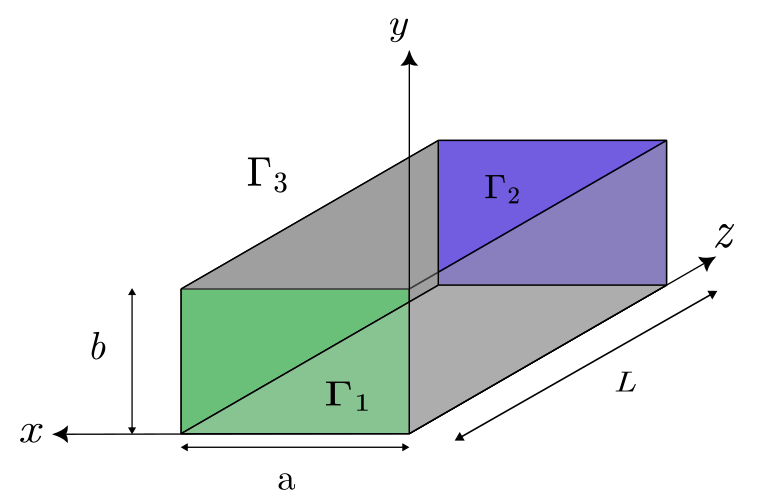
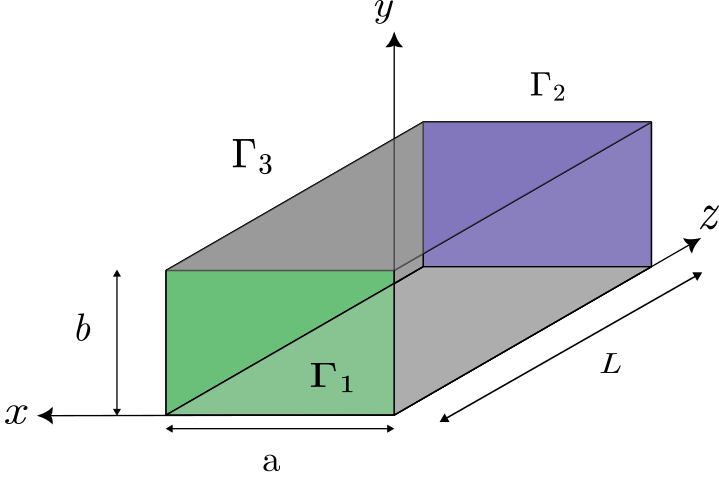
Waveguide_example_V3

diff --git a/doc/source/examples/multiphysics/waveguide/waveguide.rst b/doc/source/examples/multiphysics/waveguide/waveguide.rst
@@ -6,7 +6,7 @@
 Waveguide
 =========
 
-This example is used to verify the implementation of the electromagnetic solver. It considers the propagation of an electromagnetic wave in a waveguide, a problem for which an analytical solution is available, thereby allowing us to assess whether the method recovers the expected order of convergence.
+This example is used to verify the implementation of the electromagnetic solver. It considers the propagation of an electromagnetic (EM) wave in a waveguide, a problem for which an analytical solution is available, thereby allowing us to assess whether the method recovers the expected order of convergence.
 
 --------
 Features
@@ -14,17 +14,8 @@ Features
 
 - Solvers: ``lethe-fluid`` or ``lethe-fluid-matrix-free``
 - Steady-state problem
-- Use of discontinous Petrov-Galerkin (DPG) method
+- Use of discontinuous Petrov-Galerkin (DPG) method
 
-.. Note::
-    Even though we are using ``lethe-fluid``, we have to enable the electromagnetism solver tin the subsection Multiphysics:
-
-.. code-block:: text
-
-    subsection multiphysics
-        set fluid dynamics   = false
-        set electromagnetics = true
-    end
 
 --------------------------
 Files Used In This Example
@@ -33,7 +24,7 @@ Files Used In This Example
 All files mentioned below are located in the example's folder (``examples/multiphysics/waveguide``)
 
 - Base case parameter file (:math:`\mathrm{f=2.45 GHz}` and :math:`\mathrm{TE}_{10}`): ``waveguide.prm``
-- Folders with the results of the simulation for the degree n: ``degree_n``
+
 
 
 
@@ -42,10 +33,11 @@ All files mentioned below are located in the example's folder (``examples/multip
 Description of the Case
 -----------------------
 
+
 Geometry
 ~~~~~~~~
 
-The simulated waveguide has a square cross section. It is made of four perfectly reflective lateral walls, an inlet port for the wave’s entry, and an outlet for its exit  as shown in the figure below. The wave propagates along the :math:`z`-axis.
+The simulated waveguide has a square cross section. It is made of four perfectly conductive lateral walls, an inlet port for the wave’s entry, and an outlet for its exit as shown in the figure below. The wave propagates along the :math:`z`-axis.
 
 .. image:: images/schematic.png
     :alt: schematic
@@ -59,42 +51,51 @@ The dimensions chosen here are a width :math:`a = 0.25 \, \mathrm{m}`,  a height
 Physical Problem
 ~~~~~~~~~~~~~~~~
 .. note::
-    Lethe time-harmonic solver always solve the set of equation in a dimensionless form, so that is the convention that will be used in what follows. 
+    Lethe time-harmonic solver always solve the set of equation in a dimensionless form, so that is the convention that will be used in the following mathematical descriptions. 
 
 
-This simulation computes the stationary electromagnetic field in the above waveguide with perfectly conducting metal wall and filled with void. Recall that the time-harmonic maxwell equation in their dimensionless form used in this test case are:
+This simulation computes the stationary electromagnetic field in the above waveguide filled with void. We recall that the time-harmonic Maxwell equations in their dimensionless form, as used in this example, are:
 
 .. math::
     \begin{align*}
-    \tag{Farady's law} \nabla \times \mathbf{E} - i\omega \mu_{\mathrm{r}}\mathbf{H} &= 0 \\
+    \tag{Faraday's law} \nabla \times \mathbf{E} - i\omega \mu_{\mathrm{r}}\mathbf{H} &= 0 \\
     \tag{Ampère-Maxwell's law} \nabla \times \mathbf{H} + i \omega \varepsilon_{\mathrm{r,eff}} \mathbf{E} &= \mathbf{J} 
     \end{align*}
 
-With the parameters of the problem:
+with the parameters of the problem:
 
-- Dielectric caracteristics of the medium : :math:`\mu_{\mathrm{r}}` the relative permeability and :math:`\varepsilon_{\mathrm{r,eff}}` the effective relative permittivity. This caracteristic is "effective" because it takes into account the electric conductivity.   
-- Excitation : :math:`\mathbf{J}` the current density and :math:`\omega = \frac{L2\pi f}{c}` the angular frequency of the electromagnetic wave.
-- Speed of light in void: :math:`c`
-
-There are 12 unknowns. In fact, one for each of the dimensionless :math:`\mathbf{E}` and :math:`\mathbf{H}` fields, we compute the real and imaginary parts in each of the three spatial directions. 
+- Dielectric characteristics of the medium : :math:`\mu_{\mathrm{r}}` the relative permeability and :math:`\varepsilon_{\mathrm{r,eff}}` the effective relative permittivity. This characteristic is noted "effective" because it takes into account the electric conductivity.   
+- Excitation: :math:`\mathbf{J}` the current density and :math:`\omega = \frac{L2\pi f}{c}` the angular frequency of the electromagnetic wave normalized by the speed of light in the void :math:`c` .
 
 
-Therefore we introduce the dimensionless wavenumbers used to describe the EM waves:
+When solving a time-harmonic electromagnetic problem with Lethe, there are 12 unknowns, one for each component of the dimensionless :math:`\mathbf{E}` and :math:`\mathbf{H}` fields times two for the real and imaginary parts in each of the three spatial directions. 
 
-- Wave numbers corresponding to a standing wave caused by the walls: :math:`k_\mathrm{x} = \frac{Lm\pi}{a} \ , \ k_\mathrm{y} = \frac{Ln\pi}{b}`
-- Norm of the vector :math:`(k_\mathrm{x},k_\mathrm{y})`: :math:`k_\mathrm{c}^2 = (k_\mathrm{x}^2 + k_\mathrm{y}^2)`
-- Total wave number: :math:`k^2 = \omega \mu_{\mathrm{r}} \varepsilon_{\mathrm{eff,r}} = \sqrt{k_\mathrm{x}^2 +k_\mathrm{y}^2 + k_\mathrm{z}^2}`
-- Wave number corresponding to a wave propagating along the z-axis: :math:`k_\mathrm{z} = \sqrt{\omega^2 \varepsilon_\mathrm{eff,r}\mu_\mathrm{r} - k_\mathrm{c}^2}`
+
+In addition, to describe an electromagnetic wave problem, it is useful to  introduce the following dimensionless wavenumbers to ease notation in the following parts of this example :
+
+- Wavenumbers corresponding to a standing wave caused by the walls: :math:`k_\mathrm{x} = \frac{Lm\pi}{a} \ , \ k_\mathrm{y} = \frac{Ln\pi}{b}`
+- Wavenumber in the transverse direction of propagation: :math:`k_\mathrm{c} = \sqrt{k_\mathrm{x}^2 + k_\mathrm{y}^2}`
+- Total wavenumber: :math:`k = \omega \sqrt{\mu_{\mathrm{r}} \varepsilon_{\mathrm{eff,r}}} = \sqrt{k_\mathrm{x}^2 +k_\mathrm{y}^2 + k_\mathrm{z}^2}`
+- Wavenumber corresponding to a wave propagating along the z-axis: :math:`k_\mathrm{z} = \sqrt{\omega^2 \varepsilon_\mathrm{eff,r}\mu_\mathrm{r} - k_\mathrm{c}^2}`
 
 .. note::
     Note that if :math:`k \leq k_\mathrm{c}`, the wave does not propagate because :math:`k_\mathrm{z}^2 \leq 0`. This remark is important for the following part on the frequency and the different modes.
 
-The Different Transverse Modes
-~~~~~~~~~~~~~~~~~~~~~~~~~~~~~~
+In Lethe, the ``electromagnetics`` solver is enabled within the ``multiphysics`` subsection of the parameter file. We also disable the ``fluid dynamics`` solver there since it is enabled by default.
+
+.. code-block:: text
+
+    subsection multiphysics
+        set fluid dynamics   = false
+        set electromagnetics = true
+    end
+
+The Different Transverse Modes And The Frequency Modification
+~~~~~~~~~~~~~~~~~~~~~~~~~~~~~~~~~~~~~~~~~~~~~~~~~~~~~~~~~~~~~
 
 :math:`\mathrm{TE}_{mn}` mode refers to "Transverse electric mode". This means that regardless of the values of :math:`m` and :math:`n`, the :math:`z`-component of :math:`\mathbf{E}` is always zero. Therefore, the pair :math:`(m,n)` refers to the :math:`x`-component of the electric field being excited in the :math:`m`-th mode and the :math:`y`-component of the electric field being excited on the :math:`n`-th mode. 
 
-The :math:`\mathrm{TE}_{mn}` mode can be modified at lines 97 and 98, the default settings are:
+The :math:`\mathrm{TE}_{mn}` modes can be specified in the subsection `waveguide mode` of the parameter file. Here we used the following :
 
 .. code-block:: text
 
@@ -105,15 +106,18 @@ The :math:`\mathrm{TE}_{mn}` mode can be modified at lines 97 and 98, the defaul
     end
 
 
-You can also switch to transverse magnetic mode by replacing “TE” with “TM”.
+To apply a transverse magnetic mode, simply modify the `mode type` with “TM”.
+
+The frequency of the inlet is originally set to :math:`f = \mathrm{2.45}\, \mathrm{GHz}` because it is the nominal frequency of microwave reactors in the industry. This value can be modified in the parameter file in the subsection ``time harmonic maxwell``: ``set electromagnetic frequency  = 2.45e9``
+
 
 .. caution::
-    If :math:`\mathrm{TE}_{mn}` is changed, :math:`k_\mathrm{z} = \sqrt{\omega^2 \varepsilon_{eff}\mu - k_\mathrm{x}^2 - k_\mathrm{y}^2 }`  at line 163, the dimensionless admittance real part :math:`\Re (G)=\frac{1}{Z_s}=\frac{k_\mathrm{z}}{\omega \mu_\mathrm{r}}` at line 147 must be changed because it depends on :math:`(m,n)` through :math:`k_\mathrm{x} = \frac{m \pi}{a}` and :math:`k_\mathrm{y} = \frac{n \pi}{b}`.
+    If :math:`\mathrm{TE}_{mn}` or the frequency is changed, the wavenumber :math:`k_\mathrm{z} = \sqrt{\omega^2 \varepsilon_{\mathrm{eff,r}}\mu_\mathrm{r} - k_\mathrm{x}^2 - k_\mathrm{y}^2 }`  at line 163, the dimensionless admittance real part :math:`Y_\mathrm{s}=\frac{1}{Z_\mathrm{s}}=\frac{k_\mathrm{z}}{\omega \mu_\mathrm{r}}` at line 147 must be changed because it depends on :math:`(m,n)` and :math:`f` through :math:`k_\mathrm{x} = \frac{m \pi}{a}`, :math:`k_\mathrm{y} = \frac{n \pi}{b}` and :math:`\omega`.
 
 .. warning:: 
-    If you want to try high modes, you have to adapt the frequency in order for :math:`k_z` to keep a real value. Indeed, the number :math:`k_z^2 = \omega^2 \epsilon_{\mathrm{eff,r}}\mu_\mathrm{r} - k_x^2 - k_y^2` can be negative.
+    The simulation may not run for low frequencies or high modes. You have to adapt one of these parameters in order for :math:`k_z` to keep a real value. Indeed, the number :math:`k_z^2 = \omega^2 \varepsilon_{\mathrm{eff,r}}\mu_\mathrm{r} - k_x^2 - k_y^2` cannot be negative.
 
-Here are Paraview visuals of different modes. In order to maximise the resolution, we calculated the parameters with :math:`\lambda = L = 1\, \mathrm{m}`, which is equivalent to fix the dimensionless parameter :math:`k_\mathrm{z} = 2\pi`. This represents only one spatial period of the wave. Results of :math:`\mathrm{TE}_{10}`, :math:`\mathrm{TE}_{01}` and :math:`\mathrm{TE}_{21}` are presented below:
+Here are Paraview visuals of different modes. In order to maximise the resolution, we calculated the parameters with :math:`\lambda = L = 1\, \mathrm{m}`, which is equivalent to fix the dimensionless parameter :math:`k_\mathrm{z} = 2\pi`. This represents only one spatial period of the wave. Results of :math:`\mathrm{TE}_{32}`, :math:`\mathrm{TE}_{01}` and :math:`\mathrm{TE}_{10}` (respectively, from left to right) are presented below:
 
 .. image:: images/TE_modes.png
     :alt: TE10
@@ -129,18 +133,22 @@ Here are Paraview visuals of different modes. In order to maximise the resolutio
 Boundary Conditions
 ~~~~~~~~~~~~~~~~~~~
 
-.. Note::
-    Although we are not using the fluid solver, note that we cannot remove the ``subsection boundary conditions`` on line 107 otherwise the simulation fails to execute.
+.. Attention::
+    Although we are not using the fluid solver, note that we cannot remove the ``subsection boundary conditions`` for the fluid boundaries in the parameter file otherwise the simulation fails to execute.
 
-There are three types of boundary conditions in this problem, this explains why the surfaces of the waveguide are sorted in three groups. There is first the inlet :math:`\Gamma_1`, the outlet :math:`\Gamma_2` and finally the metal walls :math:`\Gamma_3`.
+There are three types of boundary conditions in this problem, this explains why the surfaces of the waveguide are sorted in three groups. First, there is the inlet :math:`\Gamma_1`, then the outlet :math:`\Gamma_2` and finally the metal walls :math:`\Gamma_3`.
 
 - Inlet :math:`\Gamma_1`: waveguide port boundary condition at the inlet of the waveguide to excite the :math:`\mathrm{TE}_{mn}` mode at :math:`z` = 0
-- Outlet :math:`\Gamma_2`: impedance matching boundary condition to minimize the reflections (the waveguide is theoretically infinite). The dimensionless admittance in such conditions is:
+- Outlet :math:`\Gamma_2`: ``impedance boundary`` condition tuned to the waveguide impedance to minimize the reflections (the waveguide is theoretically infinite). The dimensionless admittance in such conditions is:
 
   .. math::
-    \frac{1}{Z_s}=\frac{k_\mathrm{z}}{\omega \mu_\mathrm{r}}
 
-- Metal walls :math:`\Gamma_3`: perfect electric conductor (PEC) boundary conditions
+    Y_\mathrm{s} = \frac{1}{Z_\mathrm{s}}=\frac{k_\mathrm{z}}{\omega \mu_\mathrm{r}} = \frac{k_\mathrm{z} c}{2\pi f \mathrm{L} \mu_\mathrm{r}} \approx 0.968987646
+
+  .. caution::
+    Changes in mode will affect this value as mentioned before.
+
+- Metal walls :math:`\Gamma_3`: ``pec`` (perfect electric conductor) boundary conditions
 
 These translate into the three following equations:
 
@@ -153,7 +161,7 @@ These translate into the three following equations:
 
 
     
-Here are the lines concerning the boundary conditions in the parameter file:
+These boundary conditions are specified within the ``boundary conditions time harmonic maxwell`` subsection of the parameter file:
 
 .. code-block:: text
 
@@ -197,23 +205,13 @@ Here are the lines concerning the boundary conditions in the parameter file:
         end
     end
 
-Here is how each boundary condition is programmed in this file:
-
-- Inlet: ``set type = waveguide port``
-- Outlet: The dimensionless admittance :math:`\frac{1}{Z_\mathrm{s}} = \frac{k_\mathrm{z}}{\omega \mu_\mathrm{r}} = \frac{k_\mathrm{z} c}{2\pi f \mathrm{L} \mu_\mathrm{r}}` has to be calculated by the user before launching the simulation. Then, it is programmed here:
-
-.. code-block:: text
-
-    subsection surface admittance real part
-        set Function expression = 0.968987646    
-    
-- Perfect reflective walls: ``set type = pec``
 
 
-Dimensionless analytical solution
+
+Dimensionless Analytical Solution
 ~~~~~~~~~~~~~~~~~~~~~~~~~~~~~~~~~
 
-The solution for a :math:`\mathrm{TE_mn}` mode, which will be used to assess convergence for this test case, is given by:
+The solution for a :math:`\mathrm{TE}_{mn}` mode, which will be used to assess convergence for this test case, is given by:
 
 .. math::
     \mathbf{E} = i\frac{\omega\mu_r}{k_c^2} \begin{bmatrix}
@@ -230,13 +228,26 @@ The solution for a :math:`\mathrm{TE_mn}` mode, which will be used to assess con
     \end{bmatrix} e^{ik_\mathrm{z} z}
     
 
+The solution is specified in the ``Analytical Solution`` subsection of the parameter file: 
 
+.. code-block:: text 
 
+    subsection analytical solution
+        set enable    = true
+        set verbosity = verbose
+        subsection electromagnetics
+            set Function constants  = k = 51.348203, k_x = 12.5663706, k_z = 49.78678822
+            set Function expression = 0. ; (-k/k_x)* sin(k_x*x) * sin(k_z*z);  0.;0; (k/k_x)* sin(k_x*x) * cos(k_z*z);   0;  (k_z/k_x)* sin(k_x*x) * sin(k_z*z);    0.;   cos(k_x * x)*cos(k_z*z) ; -(k_z/k_x)* sin(k_x*x) * cos(k_z*z);    0.;  cos(k_x * x) *sin(k_z*z)
+        end
+    end 
+
+.. note::
+    The parameters defined here are only used to calculate the error, they are not taken into account in the simulation.
 
 Mesh Adaptation
 ~~~~~~~~~~~~~~~
 
-We specify, in the subsection ``mesh adaptation``, the ``type``` to be ``uniform``:
+In this tutorial, we want to perform a convergence analysis. Therefore, the mesh needs to be successively refined uniformly across the domain. This is achieved with the subsection ``mesh adaptation``, by setting the ``type`` to be ``uniform``:
 
 .. code-block:: text
 
@@ -244,7 +255,7 @@ We specify, in the subsection ``mesh adaptation``, the ``type``` to be ``uniform
       set type = uniform
     end
 
-The first parameter we can change is the the number ``n`` of mesh adaptations in the subsection ``simulation control``:
+and by changing the number ``n`` of mesh adaptations in the subsection ``simulation control``:
 
 .. code-block:: text
 
@@ -255,50 +266,35 @@ The first parameter we can change is the the number ``n`` of mesh adaptations in
         set number mesh adapt = n
     end
 
+Note that a folder is automatically created when the simulation is run. If you try a new order :math:`m`, you can change the name of the path in the ``simulation control`` subsection: ``set output path = ./degree_m/``
 
 
 .. Note:: 
-    A typical lab PC (12 cores, 64 Go RAM) can compute up to 3 mesh adaptations. 
+    A typical computer with 12 cores and 64 Gb of RAM can compute up to 3 mesh adaptations, after that the systems becomes too heavy in memory. 
 
 
-
-
-
-
-
-Frequency of the Electromagnetic Wave
-~~~~~~~~~~~~~~~~~~~~~~~~~~~~~~~~~~~~~
-
-The frequency of the inlet is originally set to :math:`f = \mathrm{2.45}\, \mathrm{GHz}` because it the nominal frequency of microwaves (MW) in the industry. This value can still be modified at line 84 : ``set electromagnetic frequency  = 2.45e9``
-
-.. caution::
-    If the frequency is changed, :math:`k_\mathrm{z} = \sqrt{\omega^2 \varepsilon_\mathrm{eff,r}\mu_\mathrm{r} - k_\mathrm{x}^2 - k_\mathrm{y}^2}` at line 163, the dimensionless admittance real part :math:`\Re (G) =\frac{1}{Z_s}=\frac{k_\mathrm{z}}{\omega \mu_\mathrm{r}}` at line 147 need to be changed since it depends on :math:`f` through :math:`\omega = \frac{2\pi Lf}{c}`.
-
-.. warning::
-    The simulation may not run for low frequencies. Indeed, if :math:`k_\mathrm{z}^2 = \omega^2 \varepsilon_\mathrm{eff,r}\mu_\mathrm{r} - k_\mathrm{x}^2 - k_\mathrm{y}^2` becomes negative, the mathematical solution still exists as evanescent waves, but it does not represent a physical system.
 
 
 
 Degree of the FEM Solver
 ~~~~~~~~~~~~~~~~~~~~~~~~
-You can also change the degree of the polynomes used in the Finite Element Method on lines 39 and 40: 
+You can also change the degree of the polynomes used in the Finite Element Method in subsection `FEM`: 
 
 .. code-block:: text
 
     subsection FEM
-        set electromagnetics trial order = 1
-        set electromagnetics test order  = 2
+        set electromagnetics trial degree = 1
+        set electromagnetics test degree  = 2
     end
 
 .. caution::
-    If you change the trial degree, you have to change the test degree on in order to have :math:`test \, degree = trial \, degree + 1`.
+    The time-harmonic Maxwell solver requires the degree of the test space to always be greater than the degree of the trial space. Consequently, if the trial space degree is changed, the test degree also needs to be adjusted. 
 
-Note that a folder is automatically created when the simulation is run. If you try a new order :math:`m`, you cam change the mame of the path on line 22: ``set output path       = ./degree_m/``
 
 Physical Properties
 ~~~~~~~~~~~~~~~~~~~
 
-You can also change the ``physical properties`` of the medium at the subsection (line 43). These are the default settings for air or void:
+You can also change the electromagnetic properties of the medium at the subsection ``phytsical properties``. Here are the default settings for air or void:
 
 .. code-block:: text
     
@@ -321,18 +317,18 @@ You can also change the ``physical properties`` of the medium at the subsection 
 .. Note::
     Adding an imaginary part to the permeability and the permittivity makes the medium dissipative. 
     
-    Here is a comparison of the result in a non-dissipative medium (air) and a disspative one with :math:`\Im(\mu_\mathrm{r})=0.06 \ , \ \Im(\varepsilon_\mathrm{eff,r})=0.06`:
+Here is a comparison of the result in a dissipative medium (left) with :math:`\Im(\mu_\mathrm{r})=0.06 \ , \ \Im(\varepsilon_\mathrm{eff,r})=0.06` and a non-dissipative one (right):
 
-.. image:: images/Dissipation.png
-    :alt: TE10V2
-    :align: center
-    :name: TE10V2
-    :width: 500
+    .. image:: images/Dissipation.png
+        :alt: TE10V2
+        :align: center
+        :name: TE10V2
+        :width: 500
 
 
 
 ----------------------
-Running the simulation
+Running The Simulation
 ----------------------
 
 Call ``lethe-fluid`` by invoking:
@@ -348,11 +344,16 @@ to run the simulation using ten CPU cores.
     run in parallel using mpirun. With three mesh adaptations, this simulation takes
     :math:`\sim \,6` minutes on :math:`10` processes. 
 
+
+.. tip::
+
+   Alternatively, the application ``lethe-fluid-matrix-free`` can be used to run the simulation (``mpirun -np 10 lethe-fluid-matrix-free waveguide.prm``). For three mesh adaptation, it takes :math:`\sim \, 4` minutes on :math:`10` processes.
+
 ----------------------
 Results and Discussion
 ----------------------
 
-The following figure shows the :math:`\Re(\mathbf{H}_\mathrm{z})` field of 4 increasing mesh adaptations with he default settings. As expected, with decreasing element size we see better results.
+The following figure shows the :math:`\Re(\mathbf{H}_\mathrm{z})` field of 4 increasing mesh adaptations with the default settings of the waveguid.prm file. As expected, with decreasing element size, we capture more and more the oscillating behavior of the solution.
 
 .. image:: images/Mesh_adaptation.png
     :alt: standing-wave-mesh
@@ -368,5 +369,5 @@ Here is the error of the default setting simulation in function of the element s
     :alt: final graph
     :align: center
 
-As expected, the error is :math:`\mathcal{O}(h^{p+1})` in the :math:`\|L^2\|`  norm for the interior trial space, which validate the implementation of the solver. 
+As expected, the error is :math:`\mathcal{O}(h^{p+1})` in the :math:`\|L^2\|` norm for the interior trial space, which verifies the implementation of the solver. 
 

diff --git a/doc/source/examples/multiphysics/multiphysics.rst b/doc/source/examples/multiphysics/multiphysics.rst
@@ -74,9 +74,9 @@ Multiphysics
 
       multiphysics_4_2 [label="Shear Bubble Detachment", href="https://chaos-polymtl.github.io/lethe/documentation/examples/multiphysics/bubble-detachment-shear-flow/bubble-detachment-shear-flow.html"];
 
-      multiphysics_5 [label="Waveguide", href="https://chaos-polymtl.github.io/lethe/documentation/examples/multiphysics/electromagnetism.html"];
+      multiphysics_5 [label="Electromagnetism", href="https://chaos-polymtl.github.io/lethe/documentation/examples/multiphysics/electromagnetism.html"];
 
-      multiphysics_5_1 [label="EM Waves", href="https://chaos-polymtl.github.io/lethe/documentation/examples/multiphysics/waveguide/waveguide.html"];
+      multiphysics_5_1 [label="Waveguide", href="https://chaos-polymtl.github.io/lethe/documentation/examples/multiphysics/waveguide/waveguide.html"];
 
 
       multiphysics -> multiphysics_1:w;

diff --git a/release_notes/current/2026_06_16_Pensec.md b/release_notes/current/2026_06_16_Pensec.md
@@ -2,4 +2,4 @@
 
 ### Added
 
-- MINOR This example explains the different parameters that can be changed in the simulation of EM waves in a cavity, using the time-harmonic part of Lethe. [#2011](https://github.com/chaos-polymtl/lethe/pull/2011)
+- MINOR This PR adds a first example for the time-harmonic Maxwell solver. It shows the propagation of an electromagnetic wave inside a waveguide and explains the different parameters that can be changed in the simulation to reproduce the results. [#2011](https://github.com/chaos-polymtl/lethe/pull/2011)